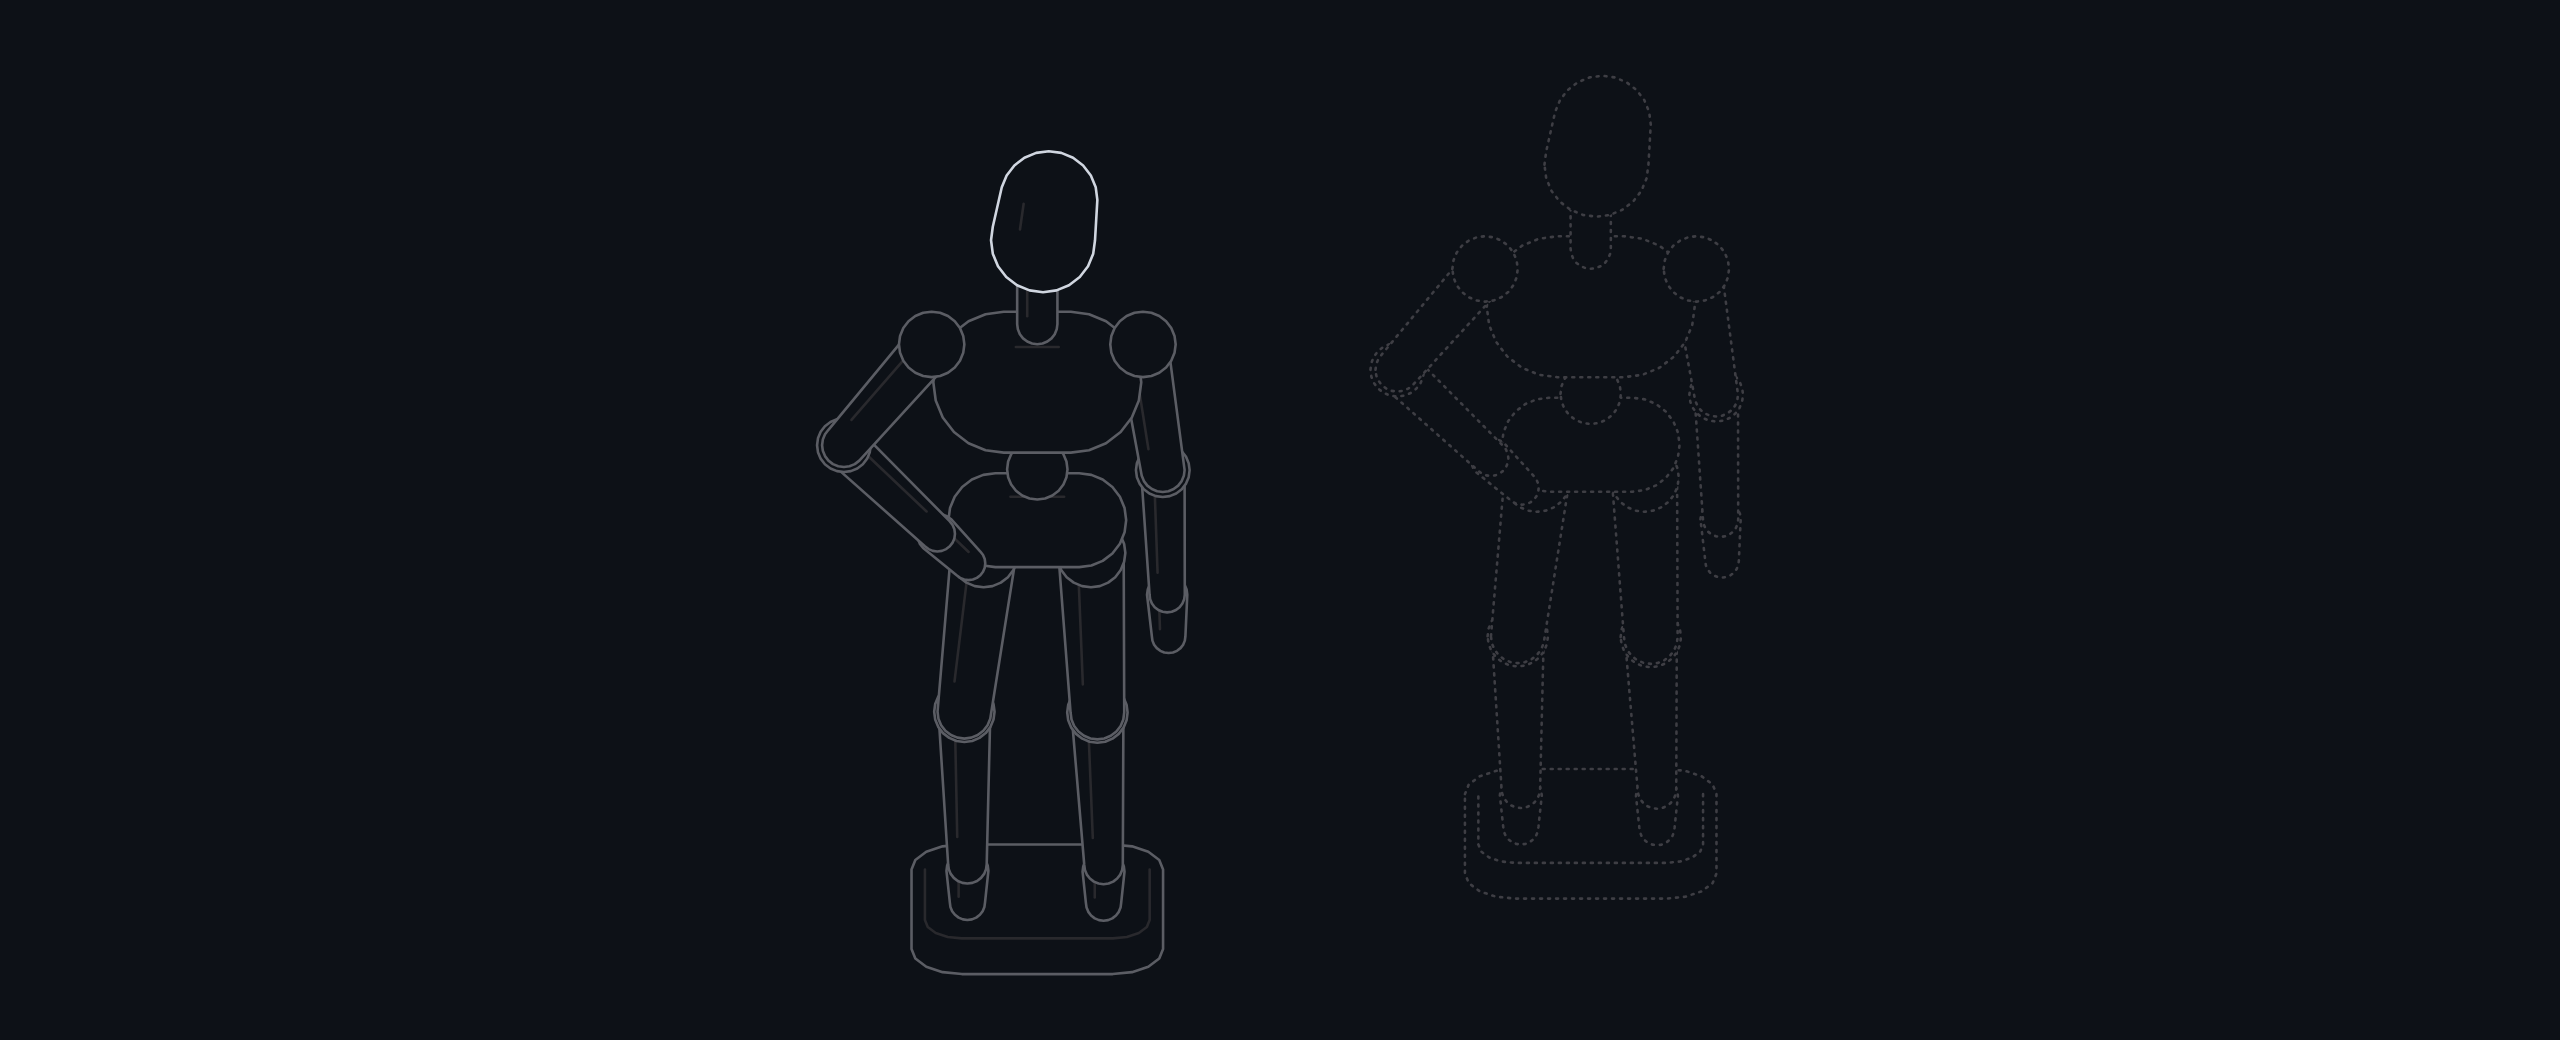
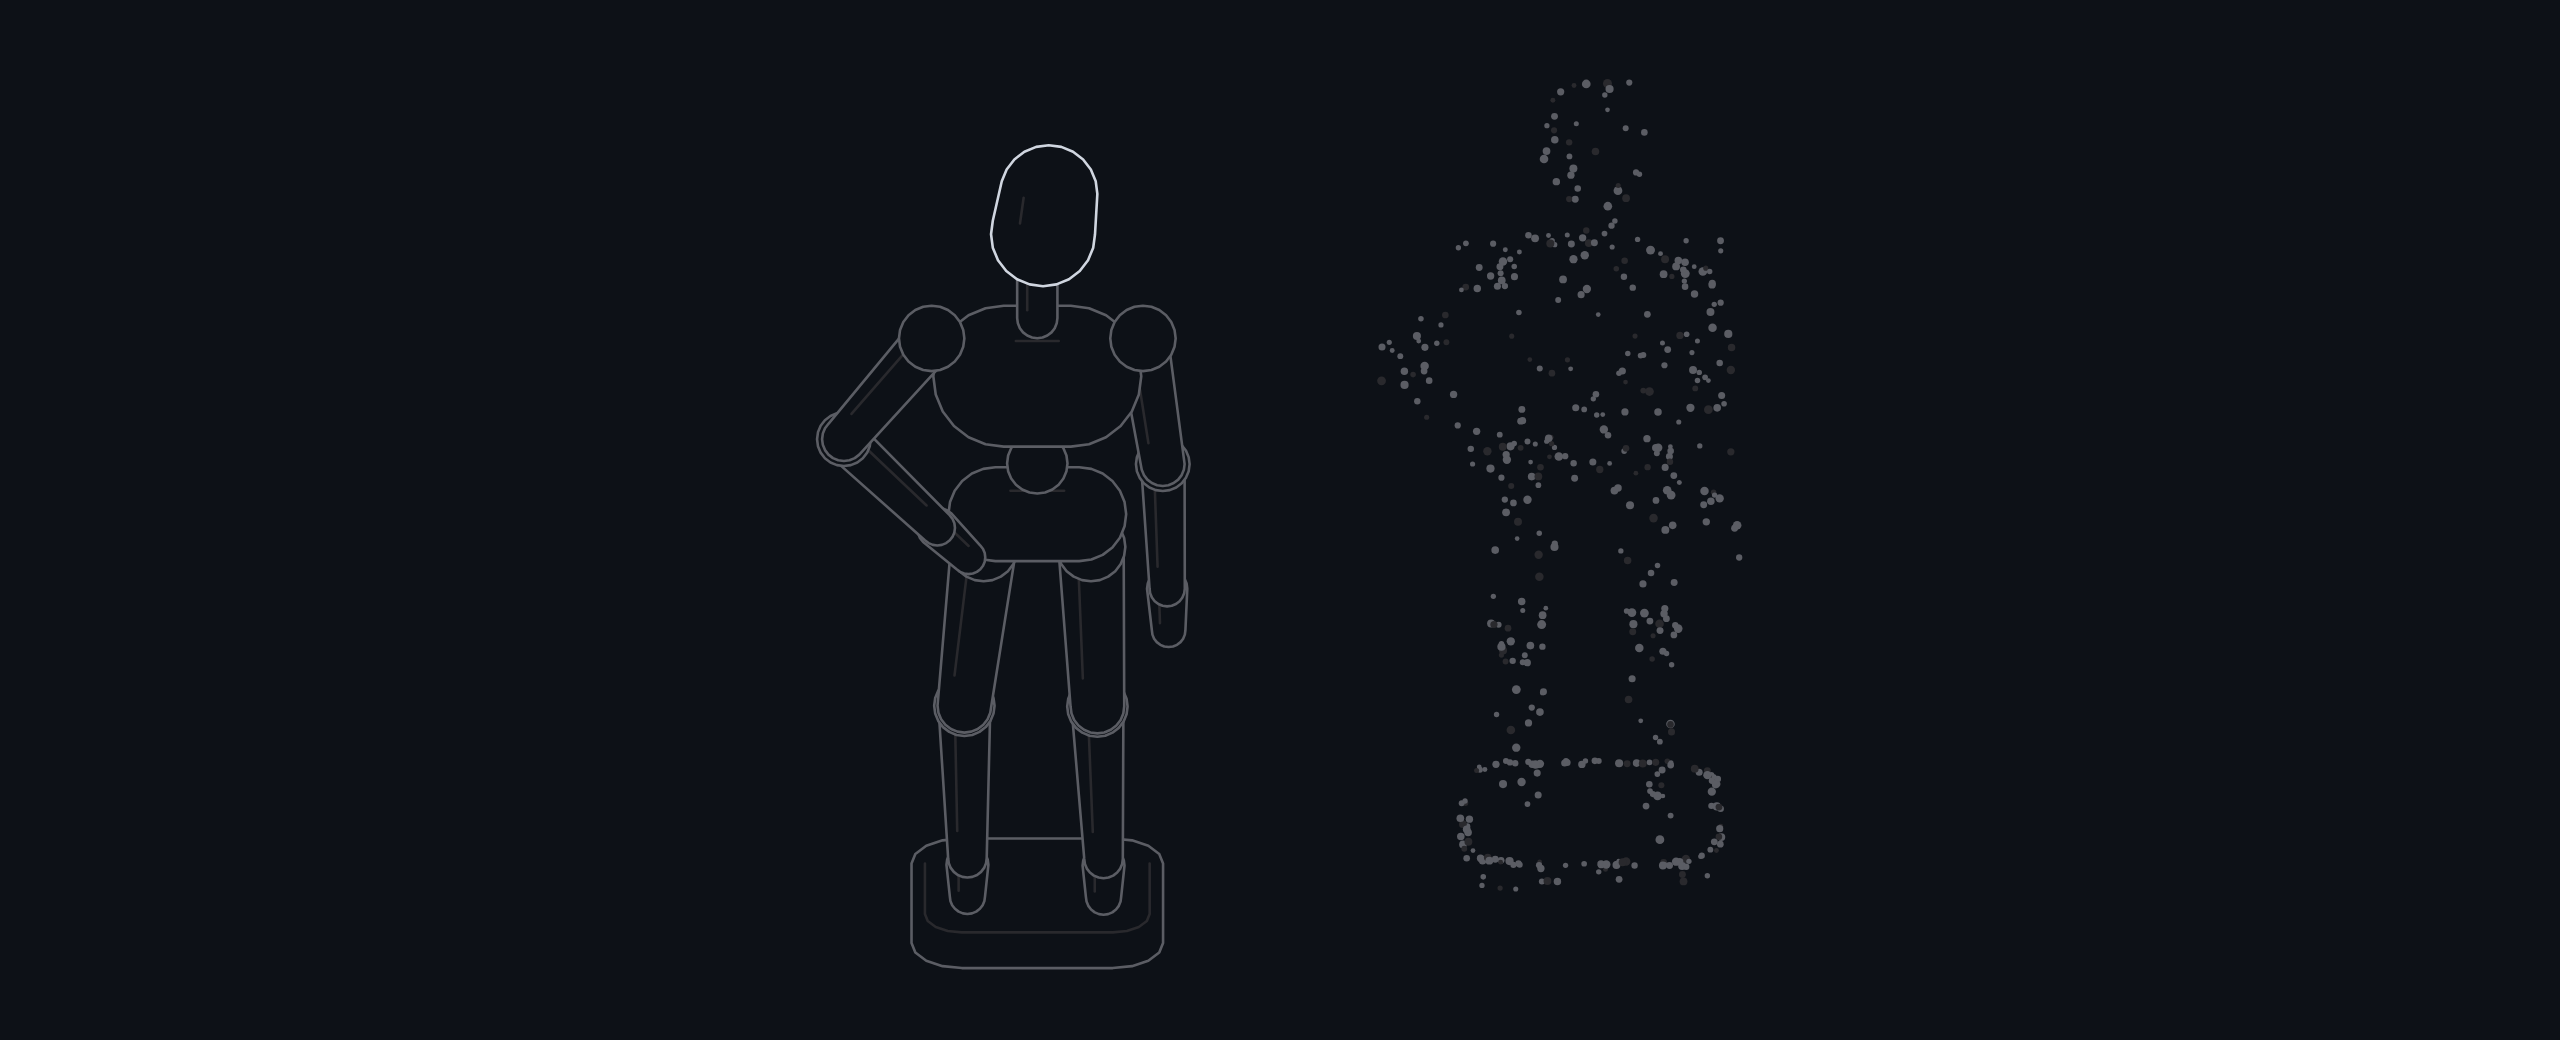
Twin: a sparse cloud of scattered dots instead of a dotted outline

diff --git a/docs/figure/twin.html b/docs/figure/twin.html
@@ -878,7 +878,8 @@ var HL = (() => {
 <script type="module" id="hl-figure">
 /**
  * Twin: a wooden artist's mannequin on a plinth, and beside it its digital
- * twin, the same figure drawn in dots. The pointer picks a limb on either:
+ * twin, the same figure as a sparse cloud of scattered dots, the side facing
+ * us only, the way a scan sees it. The pointer picks a limb on either:
  * the mannequin raises it, and the twin follows a beat later. At rest the
  * mannequin stands in contrapposto, one hand on its hip, and its head takes
  * the bright stroke. The slider is the twin's lag, in ms.
@@ -888,7 +889,7 @@ var HL = (() => {
  * the rest pose, so a raised arm cannot move out from under the pointer.
  */
 const {
-  Cam, facing, fit, hull, lerp, poly, proj, prism, put, rad, rings, seg, solid,
+  Cam, facing, fit, hull, lerp, place, poly, proj, prism, put, rad, rings, rrect, seg, solid,
   tdone, tset, tval, tween, disposer, mk, pointer, register,
 } = HL;
 
@@ -924,6 +925,38 @@ function body(fig, t) {
   return parts;
 }
 
+// The twin's cloud: dots per square unit of surface, and the direction toward the camera.
+const DENS = 0.075, V = [FW[0] * 0.866, FW[1] * 0.866, 0.5];
+const sub = (a, b) => [a[0] - b[0], a[1] - b[1], a[2] - b[2]], dot3 = (a, b) => a[0] * b[0] + a[1] * b[1] + a[2] * b[2], unit = (a) => a.map((x) => x / (Math.hypot(...a) || 1));
+const cross = (a, b) => [a[1] * b[2] - a[2] * b[1], a[2] * b[0] - a[0] * b[2], a[0] * b[1] - a[1] * b[0]];
+/** A seeded generator, so the cloud is the same scatter on every load. */
+const seeded = (s) => () => { s = (s + 0x6d2b79f5) | 0; let t = Math.imul(s ^ (s >>> 15), 1 | s); t = (t + Math.imul(t ^ (t >>> 7), 61 | t)) ^ t; return ((t ^ (t >>> 14)) >>> 0) / 4294967296; };
+
+/** Dots over every part's surface: along it (t), round it (phi), over a cap (h, 0 on the side), a little off it (j). */
+function cloud(parts, R) {
+  const out = [];
+  parts.forEach((p, i) => {
+    const L = Math.hypot(...sub(p.q, p.p)), r = (p.ra + p.rb) / 2, side = 2 * Math.PI * r * L, caps = 4 * Math.PI * r * r;
+    // stratified: each dot takes its own slice along the part and jitters inside it, so no limb comes out bare
+    for (let n = Math.max(3, Math.round((side + caps) * DENS)), k = 0; k < n; k++) {
+      const onSide = R() < side / (side + caps), end = R() < 0.5 ? 0 : 1;
+      out.push({ i, t: onSide ? (k + R()) / n : end, h: onSide ? 0 : (end ? 1 : -1) * R(), phi: R() * 2 * Math.PI, j: (R() - 0.5) * 1.4, r: 0.6 + R() * 0.55, dim: R() < 0.22 });
+    }
+  });
+  return out;
+}
+
+/** Where a dot of the cloud sits on part p, and whether it faces the camera. */
+function onSurface(p, d) {
+  const L = Math.hypot(...sub(p.q, p.p)), a = L > 0.01 ? unit(sub(p.q, p.p)) : [0, 0, 1];
+  let e1 = cross(a, [FW[0], FW[1], 0]);
+  e1 = unit(Math.hypot(...e1) < 0.3 ? cross(a, [0, 0, 1]) : e1);
+  const e2 = cross(a, e1), s = Math.sqrt(1 - d.h * d.h), r = lerp(p.ra, p.rb, d.t) + d.j;
+  const n = [0, 1, 2].map((k) => e1[k] * Math.cos(d.phi) * s + e2[k] * Math.sin(d.phi) * s + a[k] * d.h);
+  const c = [0, 1, 2].map((k) => lerp(p.p[k], p.q[k], d.t) + n[k] * r);
+  return { c, seen: dot3(n, V) > -0.05 };
+}
+
 const ring24 = (c, r) => Array.from({ length: 24 }, (_, k) => [c[0] + r * Math.cos((k / 24) * 2 * Math.PI), c[1] + r * Math.sin((k / 24) * 2 * Math.PI)]);
 /** Nearer the camera is larger: across the ground toward the viewer, and up. Balls sit just over the limbs they join. */
 const depth = (p) => ((p.p[0] + p.q[0] + p.p[1] + p.q[1]) / 2) * 0.612 + ((p.p[2] + p.q[2]) / 2) * 0.5 + (p.ball ? 0.9 : 0);
@@ -935,8 +968,7 @@ function mount({ stage, svg, read }, value) {
   for (const fig of FIGS) for (const [a, f, z] of [[-16, -12, 0], [16, -12, 0], [-16, 26, 0], [16, 26, 0], [-24, 0, 122], [24, 0, 122]])
     box.push([AX[0] * (fig.a + a) + FW[0] * (fig.f + f), AX[1] * (fig.a + a) + FW[1] * (fig.f + f), z]);
   fit(C, box, 200, 166);
-  const P = proj(C), front = facing(C);
-  const turn = (ring, fig) => ring.map((q) => ({ ...q,
+  const P = proj(C), front = facing(C), turn = (ring, fig) => ring.map((q) => ({ ...q,
     u: AX[0] * (fig.a + q.u) + FW[0] * (fig.f + q.v), v: AX[1] * (fig.a + q.u) + FW[1] * (fig.f + q.v),
     nu: AX[0] * q.nu + FW[0] * q.nv, nv: AX[1] * q.nu + FW[1] * q.nv }));
 
@@ -944,18 +976,30 @@ function mount({ stage, svg, read }, value) {
   const figs = FIGS.map((fig, fi) => {
     const g = mk("g", {}, svg), twin = fi === 1;
     const [ring, inner] = rings(-15, -11, 15, 13, 6, 1.6);
+    const tw = Object.fromEntries(LIMBS.map((k) => [k, tween(0)]));
+    if (twin) {
+      // the plinth as a scatter along its top edge and down its near sides; the body as a cloud on its parts
+      const R = seeded(7), edge = rrect(-15, -11, 15, 13, 6, 8), dots = [], cum = [0];
+      edge.forEach((q, i) => { const n = edge[(i + 1) % edge.length]; cum.push(cum[i] + Math.hypot(n.u - q.u, n.v - q.v)); });
+      for (let k = 0; k < 150; k++) {
+        // a point spread evenly along the rim, not bunched at the corners where the ring has most samples
+        const at = R() * cum[edge.length], i = cum.findIndex((c) => c > at) - 1, q = edge[i], n = edge[(i + 1) % edge.length], w = (at - cum[i]) / (cum[i + 1] - cum[i]), top = R() < 0.65;
+        if (!top && q.nv < 0.14) continue; // the sides: only those facing us
+        const u = lerp(q.u, n.u, w) + (R() - 0.5) * 1.2, v = lerp(q.v, n.v, w) + (R() - 0.5) * 1.2, z = top ? 4 : R() * 4;
+        place(mk("circle", { r: 0.6 + R() * 0.5, class: R() < 0.3 ? "dot off" : "dot m" }, g), P(AX[0] * (fig.a + u) + FW[0] * (fig.f + v), AX[1] * (fig.a + u) + FW[1] * (fig.f + v), z));
+      }
+      for (const d of cloud(body(fig, rest), R)) dots.push({ ...d, el: mk("circle", { r: d.r, class: d.dim ? "dot off" : "dot m" }, g), seen: true });
+      return { fig, g, twin, dots, tw, drawn: "", rest: body(fig, rest) };
+    }
     const plinth = solid(g);
     put(plinth, prism(P, front, turn(ring, fig), turn(inner, fig), 0, 4));
-    if (twin) { plinth.sil.setAttribute("class", "dash"); plinth.cr.setAttribute("class", "nf dash"); }
     const els = body(fig, rest).map(() => {
       const pg = mk("g", {}, g);
-      return { g: pg, sil: mk("path", { class: twin ? "dash" : "sil" }, pg), cr: twin ? null : mk("path", { class: "nf lo" }, pg) };
+      return { g: pg, sil: mk("path", { class: "sil" }, pg), cr: mk("path", { class: "nf lo" }, pg) };
     });
-    const tw = Object.fromEntries(LIMBS.map((k) => [k, tween(0)]));
     return { fig, g, twin, els, tw, order: "", drawn: "", rest: body(fig, rest) };
   });
-  // A twin standing behind is painted first.
-  figs[0].g.after(figs[1].g);
+  figs[1].g.after(figs[0].g); // the twin stands behind: painted first
 
   function draw(F, now) {
     const t = Object.fromEntries(LIMBS.map((k) => [k, tval(F.tw[k], now)]));
@@ -963,10 +1007,14 @@ function mount({ stage, svg, read }, value) {
     if (key === F.drawn) return;
     F.drawn = key;
     const parts = body(F.fig, t);
+    if (F.twin) return F.dots.forEach((d) => {
+      const { c, seen } = onSurface(parts[d.i], d);
+      place(d.el, P(...c));
+      if (seen !== d.seen) { d.seen = seen; d.el.setAttribute("display", seen ? "inline" : "none"); }
+    });
     parts.forEach((p, i) => {
       const a = P(...p.p), b = P(...p.q), el = F.els[i];
       el.sil.setAttribute("d", poly(hull(ring24(a, p.ra * S).concat(ring24(b, p.rb * S)))));
-      if (!el.cr) return;
       // the crease: a dim line along the limb on its upper-left side, short of both ends
       const dx = b[0] - a[0], dy = b[1] - a[1], len = Math.hypot(dx, dy);
       if (p.ball || len < 4) { el.cr.setAttribute("d", ""); return; }
@@ -1017,16 +1065,12 @@ function mount({ stage, svg, read }, value) {
   setActive(null);
   bag.add(pointer(stage, { move: (p) => setActive(hit(p)), leave: () => setActive(null) }));
   bag.add(() => svg.replaceChildren());
-
-  return {
-    set: (v) => { lag = v; },
-    destroy: bag.dispose,
-  };
+  return { set: (v) => { lag = v; }, destroy: bag.dispose };
 }
 
 hairline({
   name: "twin",
-  means: "A wooden mannequin and its digital twin: point at a limb, the mannequin raises it, and the twin follows a beat later.",
+  means: "A wooden mannequin and its twin, a sparse cloud of dots: point at a limb, the mannequin raises it, and the twin follows a beat later.",
   rules: [1, 2, 6, 9],
   range: [60, 180, 320],
   tour: [[131, 96], [161, 160], [286, 216], null],

diff --git a/docs/figure/twin.js b/docs/figure/twin.js
@@ -1,6 +1,7 @@
 /**
  * Twin: a wooden artist's mannequin on a plinth, and beside it its digital
- * twin, the same figure drawn in dots. The pointer picks a limb on either:
+ * twin, the same figure as a sparse cloud of scattered dots, the side facing
+ * us only, the way a scan sees it. The pointer picks a limb on either:
  * the mannequin raises it, and the twin follows a beat later. At rest the
  * mannequin stands in contrapposto, one hand on its hip, and its head takes
  * the bright stroke. The slider is the twin's lag, in ms.
@@ -10,7 +11,7 @@
  * the rest pose, so a raised arm cannot move out from under the pointer.
  */
 const {
-  Cam, facing, fit, hull, lerp, poly, proj, prism, put, rad, rings, seg, solid,
+  Cam, facing, fit, hull, lerp, place, poly, proj, prism, put, rad, rings, rrect, seg, solid,
   tdone, tset, tval, tween, disposer, mk, pointer, register,
 } = HL;
 
@@ -46,6 +47,38 @@ function body(fig, t) {
   return parts;
 }
 
+// The twin's cloud: dots per square unit of surface, and the direction toward the camera.
+const DENS = 0.075, V = [FW[0] * 0.866, FW[1] * 0.866, 0.5];
+const sub = (a, b) => [a[0] - b[0], a[1] - b[1], a[2] - b[2]], dot3 = (a, b) => a[0] * b[0] + a[1] * b[1] + a[2] * b[2], unit = (a) => a.map((x) => x / (Math.hypot(...a) || 1));
+const cross = (a, b) => [a[1] * b[2] - a[2] * b[1], a[2] * b[0] - a[0] * b[2], a[0] * b[1] - a[1] * b[0]];
+/** A seeded generator, so the cloud is the same scatter on every load. */
+const seeded = (s) => () => { s = (s + 0x6d2b79f5) | 0; let t = Math.imul(s ^ (s >>> 15), 1 | s); t = (t + Math.imul(t ^ (t >>> 7), 61 | t)) ^ t; return ((t ^ (t >>> 14)) >>> 0) / 4294967296; };
+
+/** Dots over every part's surface: along it (t), round it (phi), over a cap (h, 0 on the side), a little off it (j). */
+function cloud(parts, R) {
+  const out = [];
+  parts.forEach((p, i) => {
+    const L = Math.hypot(...sub(p.q, p.p)), r = (p.ra + p.rb) / 2, side = 2 * Math.PI * r * L, caps = 4 * Math.PI * r * r;
+    // stratified: each dot takes its own slice along the part and jitters inside it, so no limb comes out bare
+    for (let n = Math.max(3, Math.round((side + caps) * DENS)), k = 0; k < n; k++) {
+      const onSide = R() < side / (side + caps), end = R() < 0.5 ? 0 : 1;
+      out.push({ i, t: onSide ? (k + R()) / n : end, h: onSide ? 0 : (end ? 1 : -1) * R(), phi: R() * 2 * Math.PI, j: (R() - 0.5) * 1.4, r: 0.6 + R() * 0.55, dim: R() < 0.22 });
+    }
+  });
+  return out;
+}
+
+/** Where a dot of the cloud sits on part p, and whether it faces the camera. */
+function onSurface(p, d) {
+  const L = Math.hypot(...sub(p.q, p.p)), a = L > 0.01 ? unit(sub(p.q, p.p)) : [0, 0, 1];
+  let e1 = cross(a, [FW[0], FW[1], 0]);
+  e1 = unit(Math.hypot(...e1) < 0.3 ? cross(a, [0, 0, 1]) : e1);
+  const e2 = cross(a, e1), s = Math.sqrt(1 - d.h * d.h), r = lerp(p.ra, p.rb, d.t) + d.j;
+  const n = [0, 1, 2].map((k) => e1[k] * Math.cos(d.phi) * s + e2[k] * Math.sin(d.phi) * s + a[k] * d.h);
+  const c = [0, 1, 2].map((k) => lerp(p.p[k], p.q[k], d.t) + n[k] * r);
+  return { c, seen: dot3(n, V) > -0.05 };
+}
+
 const ring24 = (c, r) => Array.from({ length: 24 }, (_, k) => [c[0] + r * Math.cos((k / 24) * 2 * Math.PI), c[1] + r * Math.sin((k / 24) * 2 * Math.PI)]);
 /** Nearer the camera is larger: across the ground toward the viewer, and up. Balls sit just over the limbs they join. */
 const depth = (p) => ((p.p[0] + p.q[0] + p.p[1] + p.q[1]) / 2) * 0.612 + ((p.p[2] + p.q[2]) / 2) * 0.5 + (p.ball ? 0.9 : 0);
@@ -57,8 +90,7 @@ function mount({ stage, svg, read }, value) {
   for (const fig of FIGS) for (const [a, f, z] of [[-16, -12, 0], [16, -12, 0], [-16, 26, 0], [16, 26, 0], [-24, 0, 122], [24, 0, 122]])
     box.push([AX[0] * (fig.a + a) + FW[0] * (fig.f + f), AX[1] * (fig.a + a) + FW[1] * (fig.f + f), z]);
   fit(C, box, 200, 166);
-  const P = proj(C), front = facing(C);
-  const turn = (ring, fig) => ring.map((q) => ({ ...q,
+  const P = proj(C), front = facing(C), turn = (ring, fig) => ring.map((q) => ({ ...q,
     u: AX[0] * (fig.a + q.u) + FW[0] * (fig.f + q.v), v: AX[1] * (fig.a + q.u) + FW[1] * (fig.f + q.v),
     nu: AX[0] * q.nu + FW[0] * q.nv, nv: AX[1] * q.nu + FW[1] * q.nv }));
 
@@ -66,18 +98,30 @@ function mount({ stage, svg, read }, value) {
   const figs = FIGS.map((fig, fi) => {
     const g = mk("g", {}, svg), twin = fi === 1;
     const [ring, inner] = rings(-15, -11, 15, 13, 6, 1.6);
+    const tw = Object.fromEntries(LIMBS.map((k) => [k, tween(0)]));
+    if (twin) {
+      // the plinth as a scatter along its top edge and down its near sides; the body as a cloud on its parts
+      const R = seeded(7), edge = rrect(-15, -11, 15, 13, 6, 8), dots = [], cum = [0];
+      edge.forEach((q, i) => { const n = edge[(i + 1) % edge.length]; cum.push(cum[i] + Math.hypot(n.u - q.u, n.v - q.v)); });
+      for (let k = 0; k < 150; k++) {
+        // a point spread evenly along the rim, not bunched at the corners where the ring has most samples
+        const at = R() * cum[edge.length], i = cum.findIndex((c) => c > at) - 1, q = edge[i], n = edge[(i + 1) % edge.length], w = (at - cum[i]) / (cum[i + 1] - cum[i]), top = R() < 0.65;
+        if (!top && q.nv < 0.14) continue; // the sides: only those facing us
+        const u = lerp(q.u, n.u, w) + (R() - 0.5) * 1.2, v = lerp(q.v, n.v, w) + (R() - 0.5) * 1.2, z = top ? 4 : R() * 4;
+        place(mk("circle", { r: 0.6 + R() * 0.5, class: R() < 0.3 ? "dot off" : "dot m" }, g), P(AX[0] * (fig.a + u) + FW[0] * (fig.f + v), AX[1] * (fig.a + u) + FW[1] * (fig.f + v), z));
+      }
+      for (const d of cloud(body(fig, rest), R)) dots.push({ ...d, el: mk("circle", { r: d.r, class: d.dim ? "dot off" : "dot m" }, g), seen: true });
+      return { fig, g, twin, dots, tw, drawn: "", rest: body(fig, rest) };
+    }
     const plinth = solid(g);
     put(plinth, prism(P, front, turn(ring, fig), turn(inner, fig), 0, 4));
-    if (twin) { plinth.sil.setAttribute("class", "dash"); plinth.cr.setAttribute("class", "nf dash"); }
     const els = body(fig, rest).map(() => {
       const pg = mk("g", {}, g);
-      return { g: pg, sil: mk("path", { class: twin ? "dash" : "sil" }, pg), cr: twin ? null : mk("path", { class: "nf lo" }, pg) };
+      return { g: pg, sil: mk("path", { class: "sil" }, pg), cr: mk("path", { class: "nf lo" }, pg) };
     });
-    const tw = Object.fromEntries(LIMBS.map((k) => [k, tween(0)]));
     return { fig, g, twin, els, tw, order: "", drawn: "", rest: body(fig, rest) };
   });
-  // A twin standing behind is painted first.
-  figs[0].g.after(figs[1].g);
+  figs[1].g.after(figs[0].g); // the twin stands behind: painted first
 
   function draw(F, now) {
     const t = Object.fromEntries(LIMBS.map((k) => [k, tval(F.tw[k], now)]));
@@ -85,10 +129,14 @@ function mount({ stage, svg, read }, value) {
     if (key === F.drawn) return;
     F.drawn = key;
     const parts = body(F.fig, t);
+    if (F.twin) return F.dots.forEach((d) => {
+      const { c, seen } = onSurface(parts[d.i], d);
+      place(d.el, P(...c));
+      if (seen !== d.seen) { d.seen = seen; d.el.setAttribute("display", seen ? "inline" : "none"); }
+    });
     parts.forEach((p, i) => {
       const a = P(...p.p), b = P(...p.q), el = F.els[i];
       el.sil.setAttribute("d", poly(hull(ring24(a, p.ra * S).concat(ring24(b, p.rb * S)))));
-      if (!el.cr) return;
       // the crease: a dim line along the limb on its upper-left side, short of both ends
       const dx = b[0] - a[0], dy = b[1] - a[1], len = Math.hypot(dx, dy);
       if (p.ball || len < 4) { el.cr.setAttribute("d", ""); return; }
@@ -139,16 +187,12 @@ function mount({ stage, svg, read }, value) {
   setActive(null);
   bag.add(pointer(stage, { move: (p) => setActive(hit(p)), leave: () => setActive(null) }));
   bag.add(() => svg.replaceChildren());
-
-  return {
-    set: (v) => { lag = v; },
-    destroy: bag.dispose,
-  };
+  return { set: (v) => { lag = v; }, destroy: bag.dispose };
 }
 
 hairline({
   name: "twin",
-  means: "A wooden mannequin and its digital twin: point at a limb, the mannequin raises it, and the twin follows a beat later.",
+  means: "A wooden mannequin and its twin, a sparse cloud of dots: point at a limb, the mannequin raises it, and the twin follows a beat later.",
   rules: [1, 2, 6, 9],
   range: [60, 180, 320],
   tour: [[131, 96], [161, 160], [286, 216], null],

diff --git a/docs/figure/README.md b/docs/figure/README.md
@@ -1,6 +1,6 @@
 # The header figure
 
-A wooden artist's mannequin and its digital twin, the same figure drawn in dotted lines.
+A wooden artist's mannequin and its digital twin: the same figure as a sparse cloud of scattered dots, the way a scan would see it.
 
 `twin.html` is the interactive version, drawn with [Hairline](https://hairline.lucasmarkes.com). Download it and open it in a browser. Point at a limb on either figure: the mannequin raises it, and the twin follows a beat later. Press **play** to watch the tour. `twin.js` is the figure's source.
 

diff --git a/README.md b/README.md
@@ -1,7 +1,7 @@
 <p align="center">
   <picture>
     <source media="(prefers-color-scheme: dark)" srcset="docs/images/header-dark.png">
-    <img alt="A wooden artist's mannequin on a plinth, and beside it its twin drawn in dotted lines." src="docs/images/header-light.png" width="880">
+    <img alt="A wooden artist's mannequin on a plinth, and beside it its twin as a sparse cloud of scattered dots." src="docs/images/header-light.png" width="880">
   </picture>
 </p>
 
